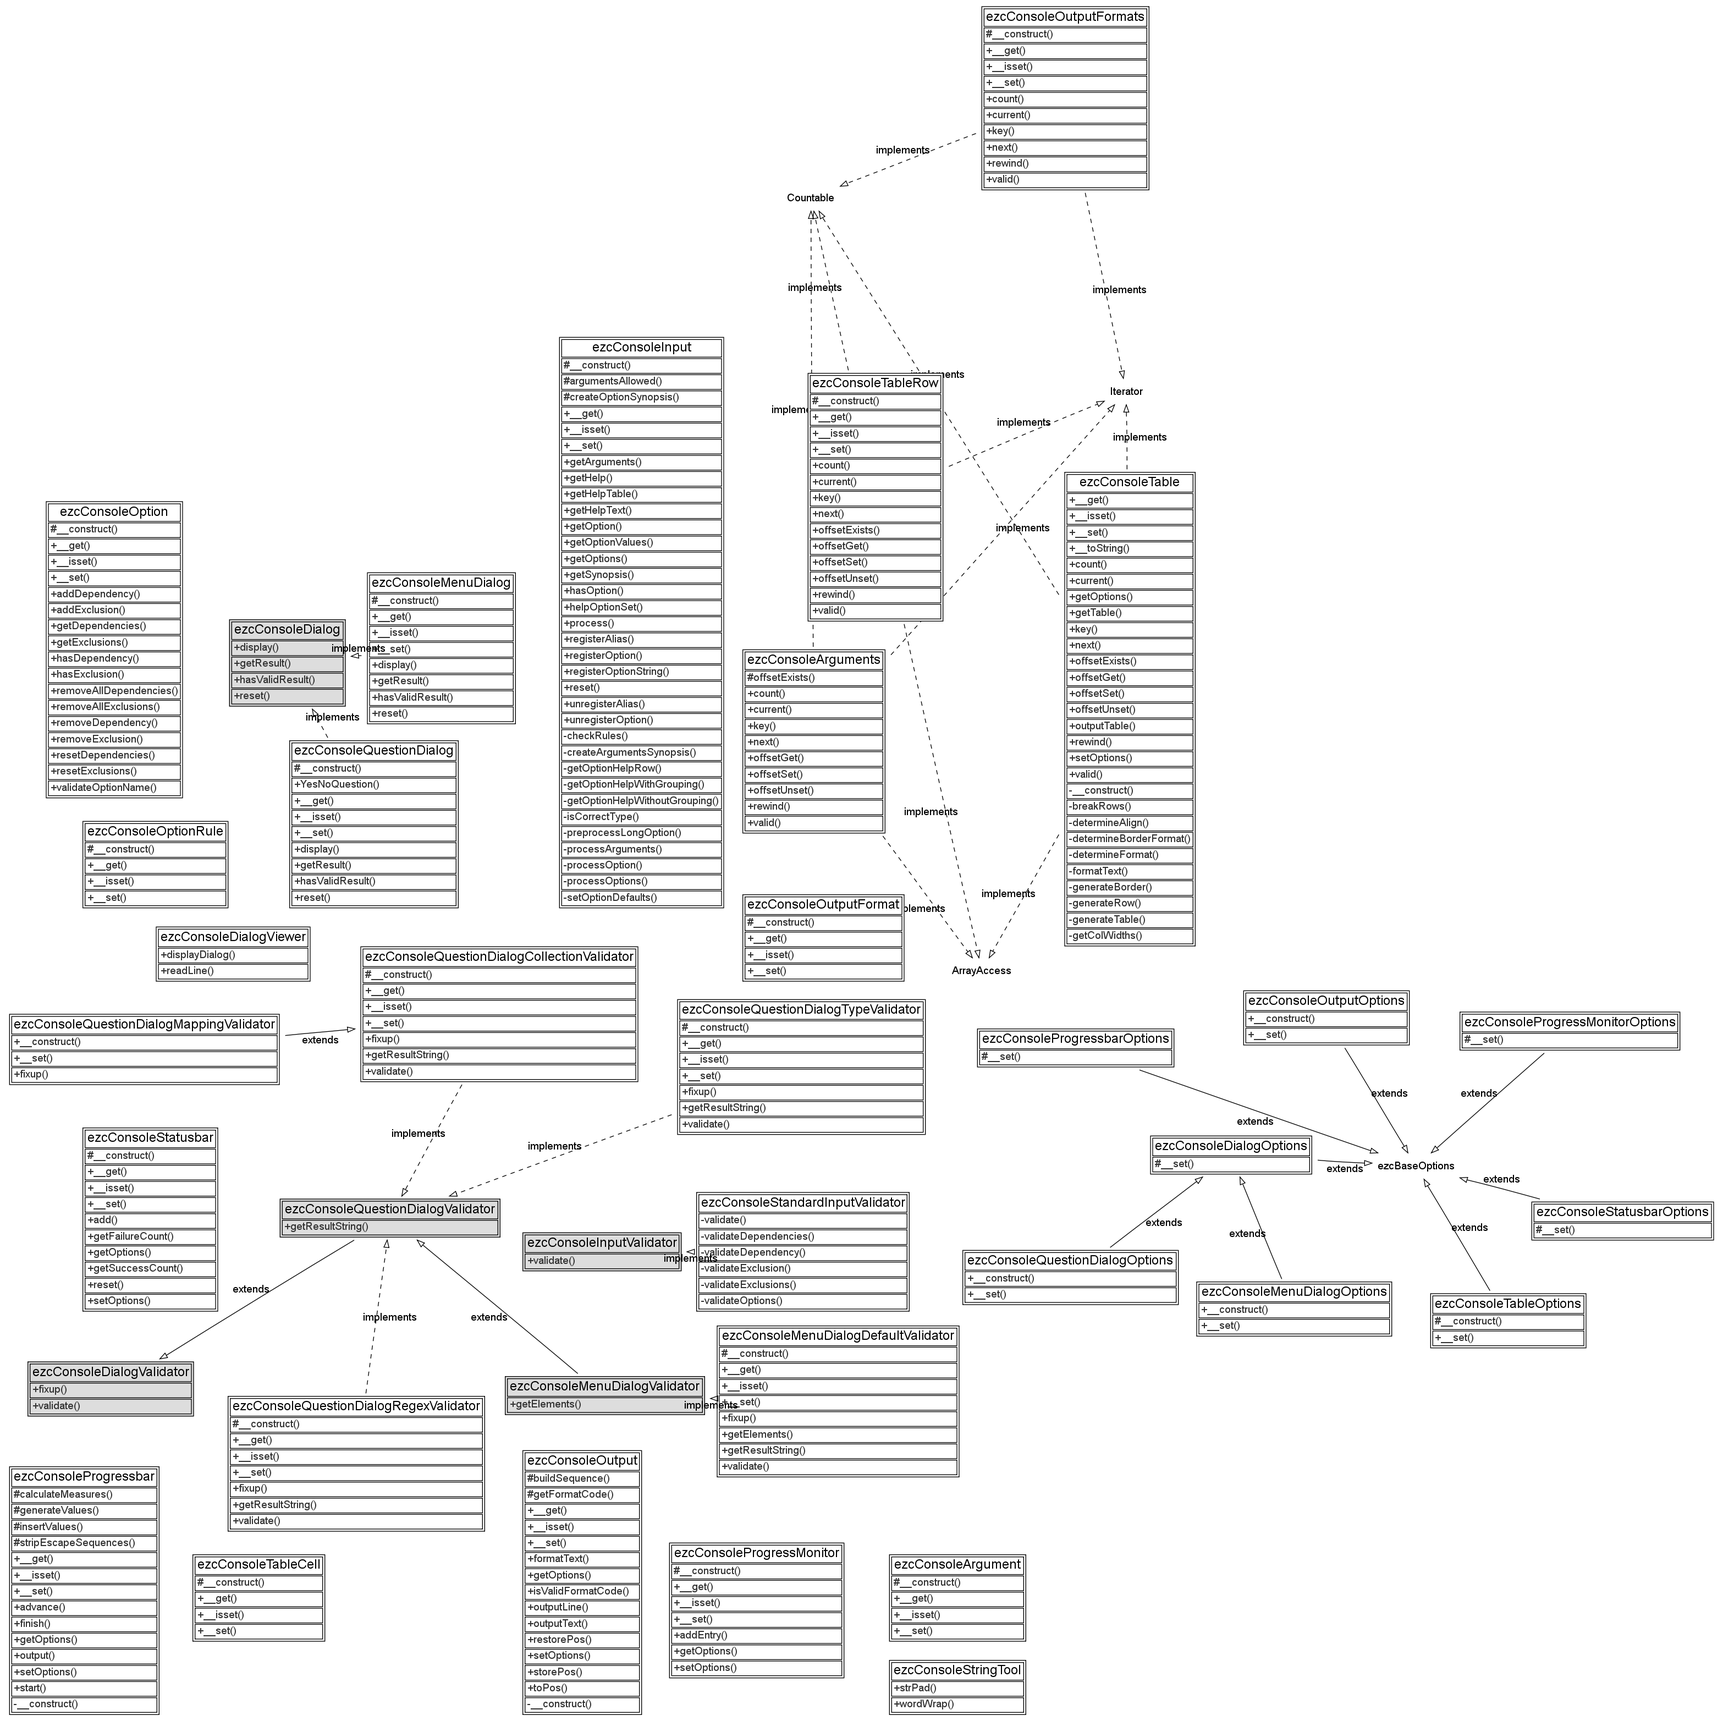
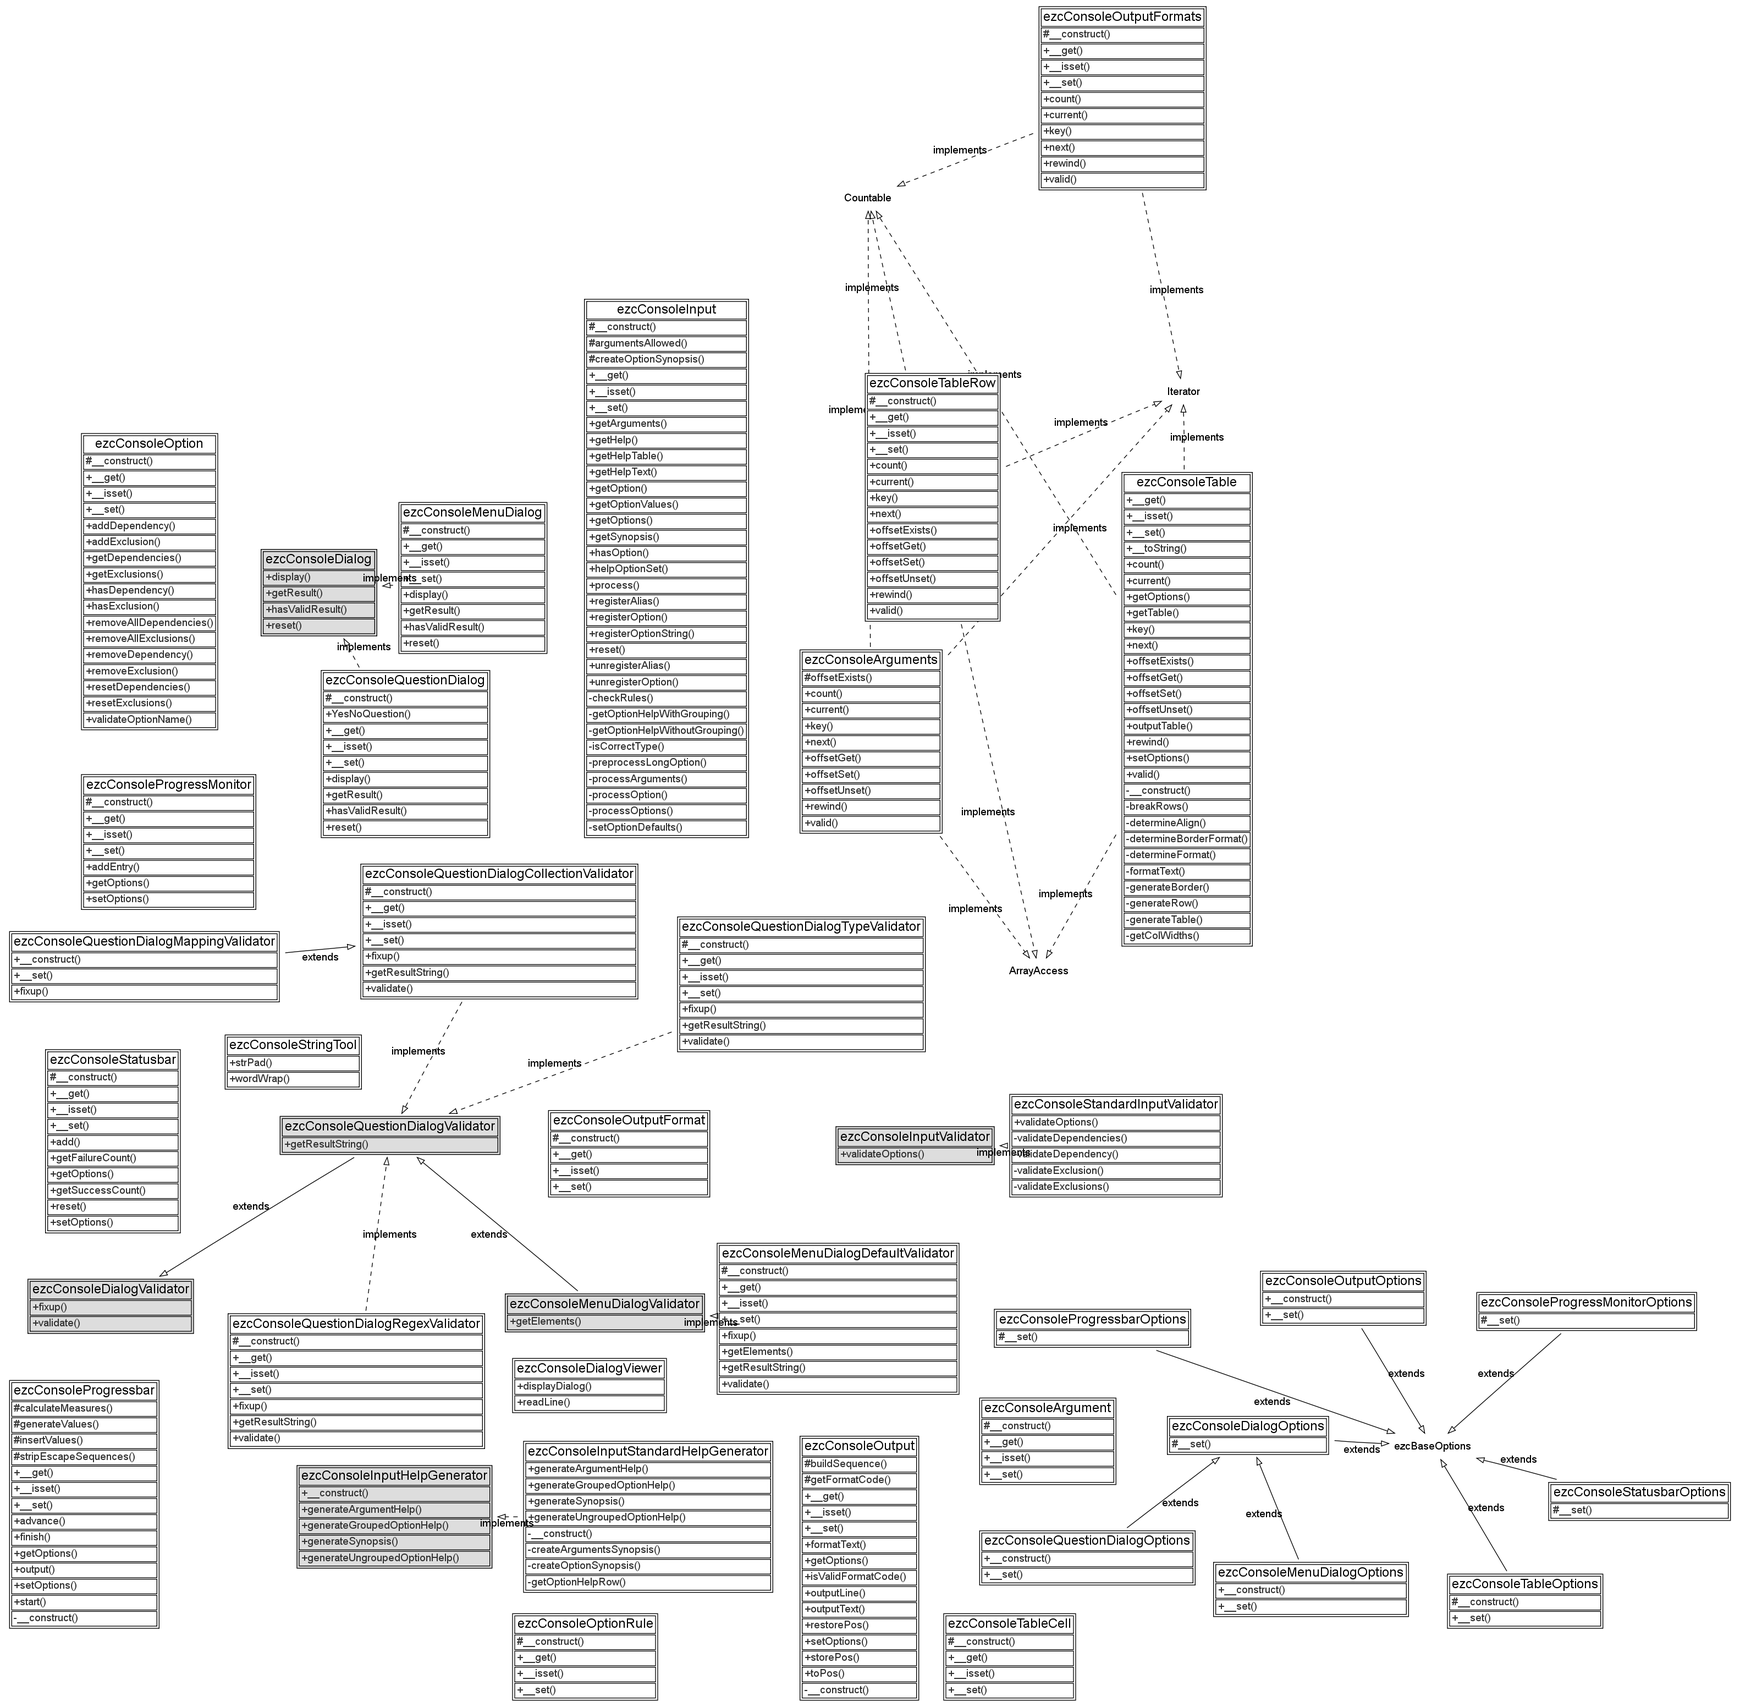
- Fixed most of the review issues.
git-svn-id: https://svn.apache.org/repos/asf/incubator/zetacomponents/trunk@978088 13f79535-47bb-0310-9956-ffa450edef68

diff --git a/ConsoleTools/src/input.php b/ConsoleTools/src/input.php
@@ -136,7 +136,7 @@ class ezcConsoleInput
      * {@link ezcConsoleInput::$optionLong}
      * are used.
      * 
-     * @var array(int=>array)
+     * @var array(array)
      */
     private $options = array();
 
@@ -217,7 +217,7 @@ class ezcConsoleInput
 
         // @TODO Verify interface and make plugable
         $this->validator     = new ezcConsoleStandardInputValidator();
-        $this->helpGenerator = new ezcConsoleStandardInputHelpGenerator( $this );
+        $this->helpGenerator = new ezcConsoleInputStandardHelpGenerator( $this );
     }
 
     /**
@@ -490,7 +490,7 @@ class ezcConsoleInput
      * All exceptions thrown by this method contain an additional attribute "option"
      * which specifies the parameter on which the error occurred.
      * 
-     * @param array(int=>string) $args The arguments
+     * @param array(string) $args The arguments
      * @return void
      *
      * @throws ezcConsoleOptionNotExistsException 
@@ -718,7 +718,7 @@ class ezcConsoleInput
      * method which is commonly used on Unix (if the last parameter
      * accepts multiple values this is required).
      *
-     * @return array(int=>string) Arguments.
+     * @return array(string) Arguments.
      */
     public function getArguments()
     {
@@ -764,9 +764,9 @@ class ezcConsoleInput
      * parameter still influences if an option is displayed at all.
      * 
      * @param bool $long
-     * @param array(int=>string) $params
+     * @param array(string) $params
      * @param array(string=>array(string)) $paramGrouping
-     * @return array(int=>array(int=>string)) Table structure as explained.
+     * @return array(array(string)) Table structure as explained.
      * 
      * @apichange In future versions, the default values of $params will change 
      *            to null instead of an empty array. Giving an empty array for 
@@ -891,7 +891,7 @@ class ezcConsoleInput
      * @param ezcConsoleTable $table     The table object to fill.
      * @param bool $long                 Set this to true for getting the 
      *                                   long help version.
-     * @param array(int=>string) $params Set of option names to generate help 
+     * @param array(string) $params Set of option names to generate help 
      *                                   for, default is all.
      * @param array(string=>array(string)) $paramGrouping
      * @return ezcConsoleTable           The filled table.
@@ -943,7 +943,7 @@ class ezcConsoleInput
      * @param int $width                 The width to adjust the output text to.
      * @param bool $long                 Set this to true for getting the long 
      *                                   help version.
-     * @param array(int=>string) $params Set of option names to generate help 
+     * @param array(string) $params Set of option names to generate help 
      *                                   for, default is all.
      * @param array(string=>array(string)) $paramGrouping
      * @return string The generated help text.
@@ -994,7 +994,7 @@ class ezcConsoleInput
      * array as the parameter of this method. If the parameter $optionNames
      * is set, only those options are listed in the synopsis. 
      * 
-     * @param array(int=>string) $optionNames
+     * @param array(string) $optionNames
      * @return string
      */
     public function getSynopsis( array $optionNames = null )
@@ -1081,7 +1081,7 @@ class ezcConsoleInput
      * terminate that after 2 recursions.
      * 
      * @param ezcConsoleOption $option        The option to include.
-     * @param array(int=>string) $usedOptions Array of used option short names.
+     * @param array(string) $usedOptions Array of used option short names.
      * @param int $depth                      Current recursion depth.
      * @return string The synopsis for this parameter.
      *
@@ -1147,7 +1147,7 @@ class ezcConsoleInput
      *
      * This method does the processing of a single option. 
      * 
-     * @param array(int=>string) $args The arguments array.
+     * @param array(string) $args The arguments array.
      * @param int $i                   The current position in the arguments array.
      * @return void
      *
@@ -1223,7 +1223,7 @@ class ezcConsoleInput
     /**
      * Process arguments given to the program. 
      * 
-     * @param array(int=>string) $args The arguments array.
+     * @param array(string) $args The arguments array.
      * @param int $i                   Current index in arguments array.
      * @return void
      */
@@ -1378,7 +1378,7 @@ class ezcConsoleInput
      * this is the case parameter and value get split and replaced in the
      * arguments array.
      * 
-     * @param array(int=>string) $args The arguments array
+     * @param array(string) $args The arguments array
      * @param int $i                   Current arguments array position
      * @return void
      */

diff --git a/ConsoleTools/src/input/help_generators/standard.php b/ConsoleTools/src/input/help_generators/standard.php
@@ -1,6 +1,6 @@
 <?php
 /**
- * File containing the ezcConsoleStandardInputHelpGenerator class.
+ * File containing the ezcConsoleInputStandardHelpGenerator class.
  *
  * @package ConsoleTools
  * @version //autogentag//
@@ -20,7 +20,7 @@
  * @TODO Verify interface and make it public to replace the validation in 
  *       {@link ezcConsoleInput}.
  */
-class ezcConsoleStandardInputHelpGenerator implements ezcConsoleInputHelpGenerator
+class ezcConsoleInputStandardHelpGenerator implements ezcConsoleInputHelpGenerator
 {
     /**
      * Input object. 
@@ -82,8 +82,8 @@ class ezcConsoleStandardInputHelpGenerator implements ezcConsoleInputHelpGenerat
      * the options to include.
      * 
      * @param bool $long 
-     * @param array(int=>string) $optionsFilter
-     * @return array(int=>array(int=>string))
+     * @param array(string) $optionsFilter
+     * @return array(array(string))
      */
     public function generateUngroupedOptionHelp( $long = false, array $optionsFilter = null )
     {
@@ -141,7 +141,7 @@ class ezcConsoleStandardInputHelpGenerator implements ezcConsoleInputHelpGenerat
      * @param array(string=>array(string)) $groups
      * @param bool $long 
      * @param array(string) $params 
-     * @return array(string=>array(int=>array(int=>string)))
+     * @return array(string=>array(array(string)))
      */
     public function generateGroupedOptionHelp( array $groups, $long = false, array $optionsFilter = null )
     {
@@ -189,7 +189,7 @@ class ezcConsoleStandardInputHelpGenerator implements ezcConsoleInputHelpGenerat
      * used.
      *
      * @param bool $long
-     * @return array(int=>array(int=>string))
+     * @return array(array(string))
      */
     public function generateArgumentHelp( $long = false )
     {
@@ -250,8 +250,11 @@ class ezcConsoleStandardInputHelpGenerator implements ezcConsoleInputHelpGenerat
      * Generates a command line synopsis for the options and arguments.
      *
      * This method generates a synopsis string that lists the options and 
-     * parameters available, indicating their usage.
+     * parameters available, indicating their usage. If $optionsFilter is
+     * submitted, only the options named in this array (short or long variant) 
+     * will be included in the synopsis.
      *
+     * @param array(string) $optionsFilter
      * @return string
      */
     public function generateSynopsis( array $optionFilter = null )
@@ -290,7 +293,7 @@ class ezcConsoleStandardInputHelpGenerator implements ezcConsoleInputHelpGenerat
      * terminate that after 2 recursions.
      * 
      * @param ezcConsoleOption $option        The option to include.
-     * @param array(int=>string) $usedOptions Array of used option short names.
+     * @param array(string) $usedOptions Array of used option short names.
      * @param int $depth                      Current recursion depth.
      * @return string The synopsis for this parameter.
      */

diff --git a/ConsoleTools/src/table.php b/ConsoleTools/src/table.php
@@ -138,7 +138,7 @@ class ezcConsoleTable implements Countable, Iterator, ArrayAccess
     /**
      * Collection of the rows that are contained in the table. 
      * 
-     * @var array(int=>ezcConsoleTableRow)
+     * @var array(ezcConsoleTableRow)
      */
     protected $rows;
 
@@ -523,7 +523,7 @@ class ezcConsoleTable implements Countable, Iterator, ArrayAccess
     /**
      * Generate the complete table as an array. 
      * 
-     * @return array(int=>string) The table.
+     * @return array(string) The table.
      */
     private function generateTable()
     {
@@ -565,7 +565,7 @@ class ezcConsoleTable implements Countable, Iterator, ArrayAccess
     /**
      * Generate top/bottom borders of rows. 
      * 
-     * @param array(int=>int) $colWidth Array of column width.
+     * @param array(int) $colWidth Array of column width.
      * @param string $format            Format name.
      * @return string The Border string.
      */
@@ -591,8 +591,8 @@ class ezcConsoleTable implements Countable, Iterator, ArrayAccess
      * Generate a single physical row.
      * This method generates the string for a single physical table row.
      * 
-     * @param array(int=>string) $cells Cells of the row.
-     * @param array(int=>int) $colWidth Calculated columns widths.
+     * @param array(string) $cells Cells of the row.
+     * @param array(int) $colWidth Calculated columns widths.
      * @param ezcConsoleTableRow $row   The row to generate.
      * @return string The row.
      */
@@ -685,9 +685,9 @@ class ezcConsoleTable implements Countable, Iterator, ArrayAccess
      * class. In this case, the data can be automatically wrapped. The table 
      * row then spans over multiple physical console lines.
      * 
-     * @param array(int=>string) $cells Array of cells in one row.
-     * @param array(int=>int) $colWidth Columns widths array.
-     * @return array(int=>string) Physical rows generated out of this row.
+     * @param array(string) $cells Array of cells in one row.
+     * @param array(int) $colWidth Columns widths array.
+     * @return array(string) Physical rows generated out of this row.
      */
     private function breakRows( $cells, $colWidth ) 
     {

diff --git a/ConsoleTools/src/console_autoload.php b/ConsoleTools/src/console_autoload.php
@@ -37,6 +37,7 @@ return array(
     'ezcConsoleQuestionDialogValidator'             => 'ConsoleTools/interfaces/question_dialog_validator.php',
     'ezcConsoleDialog'                              => 'ConsoleTools/interfaces/dialog.php',
     'ezcConsoleDialogOptions'                       => 'ConsoleTools/options/dialog.php',
+    'ezcConsoleInputHelpGenerator'                  => 'ConsoleTools/interfaces/input_help_generator.php',
     'ezcConsoleInputValidator'                      => 'ConsoleTools/interfaces/input_validator.php',
     'ezcConsoleMenuDialogValidator'                 => 'ConsoleTools/interfaces/menu_dialog_validator.php',
     'ezcConsoleQuestionDialogCollectionValidator'   => 'ConsoleTools/dialog/validators/question_dialog_collection.php',
@@ -44,6 +45,7 @@ return array(
     'ezcConsoleArguments'                           => 'ConsoleTools/input/arguments.php',
     'ezcConsoleDialogViewer'                        => 'ConsoleTools/dialog_viewer.php',
     'ezcConsoleInput'                               => 'ConsoleTools/input.php',
+    'ezcConsoleInputStandardHelpGenerator'          => 'ConsoleTools/input/help_generators/standard.php',
     'ezcConsoleMenuDialog'                          => 'ConsoleTools/dialog/menu_dialog.php',
     'ezcConsoleMenuDialogDefaultValidator'          => 'ConsoleTools/dialog/validators/menu_dialog_default.php',
     'ezcConsoleMenuDialogOptions'                   => 'ConsoleTools/options/menu_dialog.php',
@@ -70,7 +72,5 @@ return array(
     'ezcConsoleTableCell'                           => 'ConsoleTools/table/cell.php',
     'ezcConsoleTableOptions'                        => 'ConsoleTools/options/table.php',
     'ezcConsoleTableRow'                            => 'ConsoleTools/table/row.php',
-    'ezcConsoleInputHelpGenerator'                  => 'ConsoleTools/interfaces/input_help_generator.php',
-    'ezcConsoleStandardInputHelpGenerator'          => 'ConsoleTools/input/help_generators/standard.php',
 );
 ?>

diff --git a/ConsoleTools/src/input/option.php b/ConsoleTools/src/input/option.php
@@ -134,8 +134,8 @@ class ezcConsoleOption
      * @param bool $multiple     If the parameter may be submitted multiple times.
      * @param string $shorthelp  Short help text.
      * @param string $longhelp   Long help text.
-     * @param array(int=>ezcConsoleOptionRule) $dependencies Dependency rules.
-     * @param array(int=>ezcConsoleOptionRule) $exclusions   Exclusion rules.
+     * @param array(ezcConsoleOptionRule) $dependencies Dependency rules.
+     * @param array(ezcConsoleOptionRule) $exclusions   Exclusion rules.
      * @param bool $arguments    Whether supplying arguments is allowed when this parameter is set.
      * @param bool $mandatory    Whether the parameter must be always submitted.
      * @param bool $isHelpOption Indicates that the given parameter is a help 
@@ -292,7 +292,7 @@ class ezcConsoleOption
      * );
      * </code>
      * 
-     * @return array(int=>ezcConsoleOptionRule) Dependency definition.
+     * @return array(ezcConsoleOptionRule) Dependency definition.
      */
     public function getDependencies()
     {
@@ -403,7 +403,7 @@ class ezcConsoleOption
      * );
      * </code>
      * 
-     * @return array(int=>ezcConsoleOptionRule) Exclusions definition.
+     * @return array(ezcConsoleOptionRule) Exclusions definition.
      */
     public function getExclusions()
     {

diff --git a/ConsoleTools/src/interfaces/input_help_generator.php b/ConsoleTools/src/interfaces/input_help_generator.php
@@ -74,8 +74,8 @@ interface ezcConsoleInputHelpGenerator
      * the options to include.
      * 
      * @param bool $long 
-     * @param array(int=>string) $optionsFilter
-     * @return array(int=>array(int=>string))
+     * @param array(string) $optionsFilter
+     * @return array(array(string))
      */
     public function generateUngroupedOptionHelp( $long = false, array $optionsFilter = null );
 
@@ -122,7 +122,7 @@ interface ezcConsoleInputHelpGenerator
      * @param array(string=>array(string)) $groups
      * @param bool $long 
      * @param array(string) $params 
-     * @return array(string=>array(int=>array(int=>string)))
+     * @return array(string=>array(array(string)))
      */
     public function generateGroupedOptionHelp( array $groups, $long = false, array $optionsFilter = null );
 
@@ -152,7 +152,7 @@ interface ezcConsoleInputHelpGenerator
      * used.
      * 
      * @param bool $long
-     * @return array(int=>array(int=>string))
+     * @return array(array(string))
      */
     public function generateArgumentHelp( $long = false );
 

diff --git a/ConsoleTools/src/structs/output_format.php b/ConsoleTools/src/structs/output_format.php
@@ -93,7 +93,7 @@ class ezcConsoleOutputFormat
      * Creates a new object of this class.
      * 
      * @param string $color             Name of a color value.
-     * @param array(int=>string) $style Names of style values.
+     * @param array(string) $style Names of style values.
      * @param string $bgcolor           Name of a bgcolor value.
      * @param string $target            Target output stream.
      */

diff --git a/ConsoleTools/src/exceptions/argument_too_many.php b/ConsoleTools/src/exceptions/argument_too_many.php
@@ -20,7 +20,7 @@ class ezcConsoleTooManyArgumentsException extends ezcConsoleArgumentException
     /**
      * Creates a new exception object. 
      * 
-     * @param array(int=>string) $args Arguments array.
+     * @param array(string) $args Arguments array.
      * @param int $i                   Index in the arguments array.
      * @return void
      */

diff --git a/ConsoleTools/src/input/arguments.php b/ConsoleTools/src/input/arguments.php
@@ -20,7 +20,7 @@ class ezcConsoleArguments implements ArrayAccess, Iterator, Countable
     /**
      * Ordered list of arguments. 
      * 
-     * @var array(int=>ezcConsoleArgument)
+     * @var array(ezcConsoleArgument)
      */
     protected $ordered = array();
 
